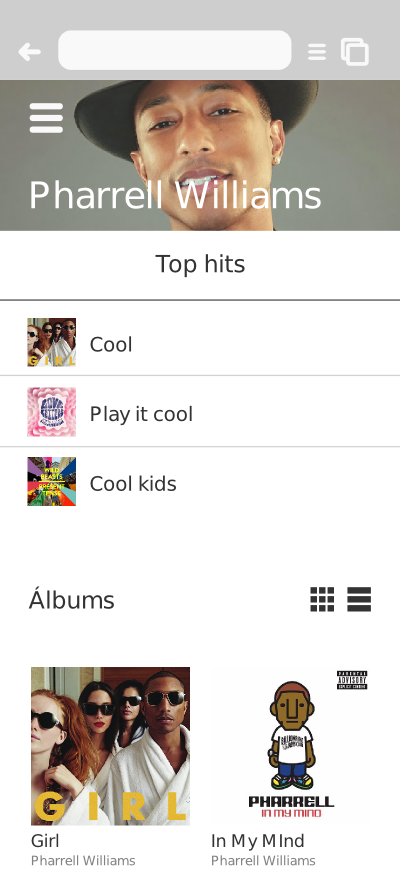
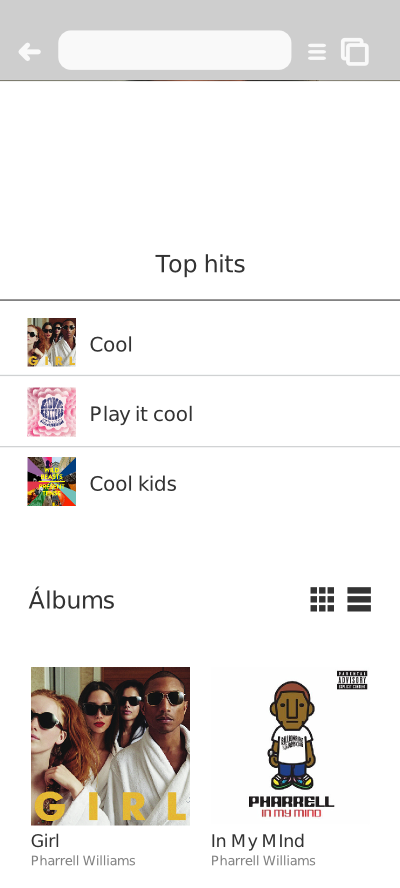
Artist profile

Changed region(s): [[0.0, 0.0912, 1.0, 0.2736]]

diff --git a/templates/header.html b/templates/header.html
@@ -20,11 +20,17 @@
 			</div>
 		</div>
 	</div>
+	<a href="#" class="button-menu icon-menu {% if secction_name == 'Artist Profile' %}white-text{% endif %}"></a>
 	{% include "menu.html" %}
 		<div class="title">
 			{% if secction_name == 'Artist Profile' %}
 				<figure class="artist-foto">
-					<img src="http://dummyimage.com/400x150&text={{ artist.fullname }}" alt="">
+					{% if artist.profile_image %}
+					<img src="{{ artist.profile_image.url }}" alt="Artist photo">
+					{% else %}
+					<img src="http://dummyimage.com/400x150&text=." alt="This artist has no photo">
+					{% endif %}
+					<span>{{artist.fullname}}</span>
 				</figure>
 			{% endif %}
 		<span>

diff --git a/templates/menu.html b/templates/menu.html
@@ -1,5 +1,4 @@
 {% load static from staticfiles %}
-<a href="#" class="button-menu icon-menu"></a>
 	<nav class="menu">
 		<ul class="list center-block wrap">
 			<li class="items">

diff --git a/artists/models.py b/artists/models.py
@@ -30,7 +30,7 @@ class Artist(models.Model):
 	biography	= models.TextField(blank=True)
 	country		= models.ForeignKey(Country, blank=True)
 
-	profile_image = models.ImageField(upload_to='artist/',blank=True, null=True)
+	profile_image = models.ImageField(upload_to='artist/',blank=True)
 
 	is_group	= models.BooleanField(default=False)
 
